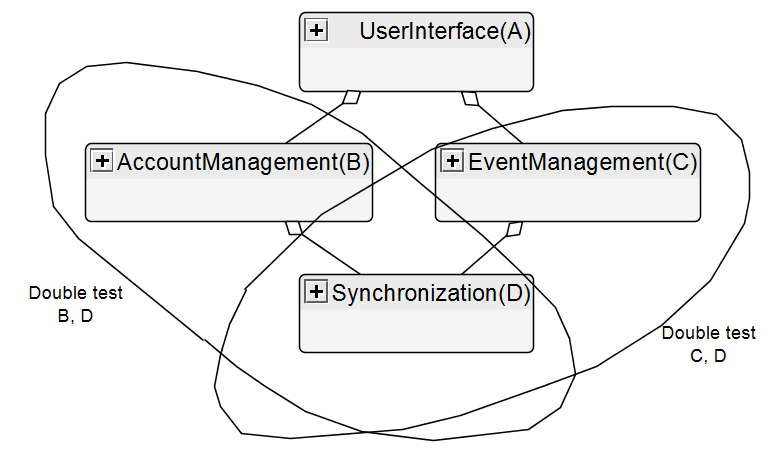
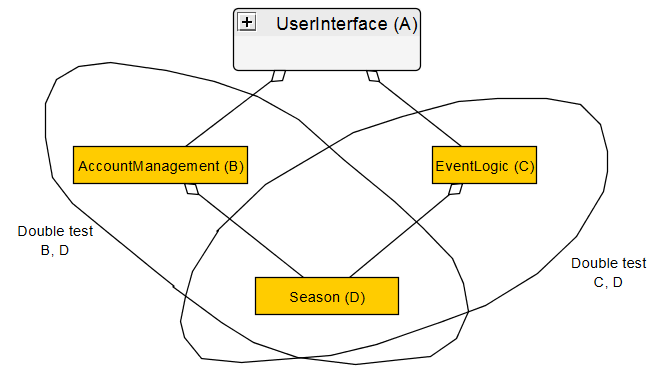
Latex don

diff --git a/Assinments/LatexAS.43/AS40.tex b/Assinments/LatexAS.43/AS40.tex
@@ -19,19 +19,20 @@
 \maketitle
 
 \section{Most appropriate component tests}
-	We have chocen to make a component test of all our  subsystems facadas, this inclode EventLogic, Season and AccountLogic. We are also component testing EventComponet becourse it is isentiel for transporting data in our system. We have chocen not to make stubs for EventComponent, Account og Notification, becourse to make the stubs work right, we would have to implement almost the same code as the original. Given that the classes are all data classes, we see nothing wrong with it.
+	We have chocen to make a component test of all our  subsystems facadas, this includes EventLogic, Season and AccountManagement. We are also component testing EventComponet because it is essential for transporting data in our system. We have chocen not to make stubs for EventComponent, Account og Notification, because to make the stubs work right, we would have to implement almost the same code as the original. Given that the classes are all data classes, we see nothing wrong with it.
     
 \section{Integration test strategy}
-   	The strategy we are using is one of the Horizontal integration testing strategies, the bottom-up strategy. 
-    	Becourse we dit not have enough time to develop to many test-stubs
+   	The strategy we are using is one of the Horizontal integration testing strategies, the bottom-up strategy. Which starts with testing each component of the bottom layer individually, then uses them to test the next layer up, by integrating them in the components their uses them. Then repeat until all components are integrated and tested together. Side note test stubs are unnecessary in this strategy.\\
+	In our project we start by testing Season(D) alone, then integrate D in AccountManagement(B) and do the double test B-D and the same for D in EventLogic(C), as seen in Figure \ref{fig:Model}.Last we would have like to also have tests for the UserInterface(A) subsystem but we didn't have time for unit tests and and the last integration test A-B-C-D.
 
 
-	\begin{table}
+	\begin{figure}
 		\centering
 		\includegraphics[width=1\textwidth]{UMLtestDiagram.PNG}\\
-		\caption{Bottom-up test strategy. After unit testing subsystems A, B, C and D, the bottom up integration 
+		\caption{Bottom-up test strategy. After unit testing subsystems B, C and D, the bottom up integration 
 			test proceeds with the double tests B-D and C-D.}
-	\end{table}
+		\label{fig:Model}
+	\end{figure}
 
 
 \end{document}
